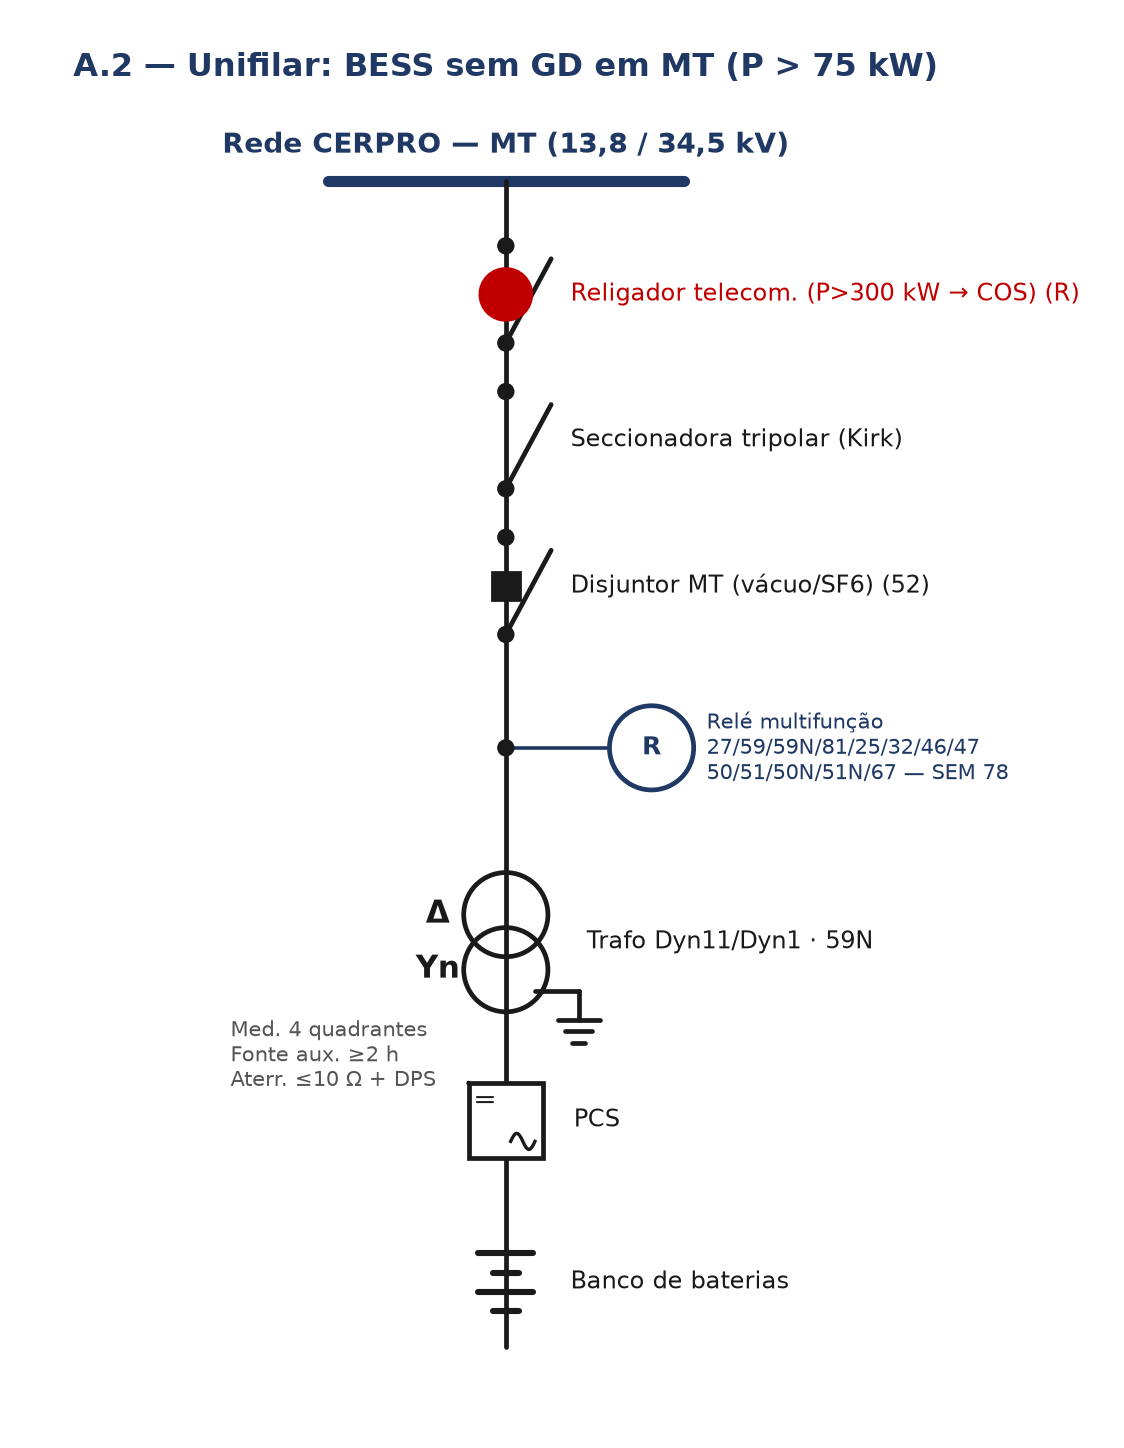
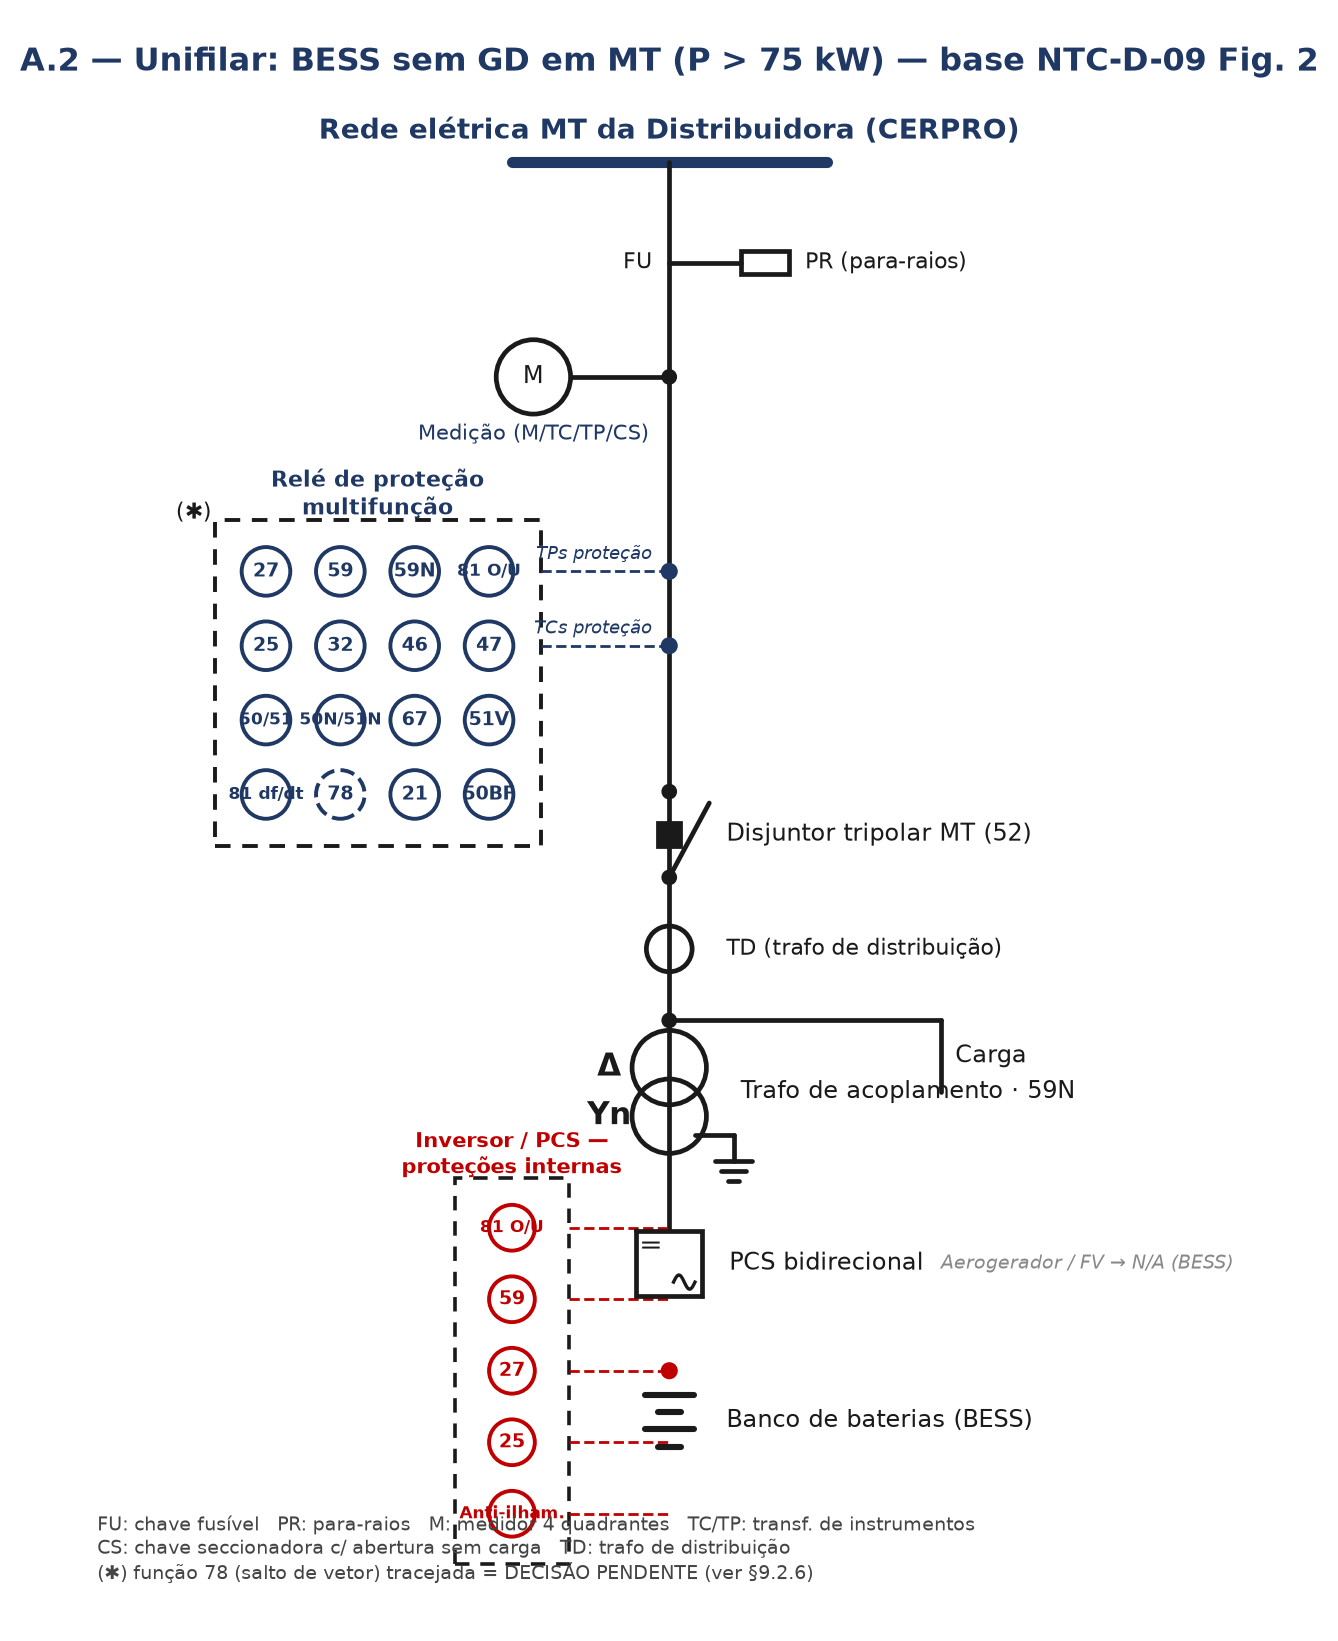
anexo A: padroniza unifilar MT (A.2) conforme NTC-D-09 Figura 2
- Extrai Figuras 1-4 da NTC-D-09 (R3/2024) para docs/fontes-cerpro/figuras-ntc-d09/.
- Reescreve A.2 (MT) no traçado da CERPRO: caixa de funções ANSI alimentada por
  TPs/TCs de proteção, disjuntor tripolar, TD, trafo de acoplamento com ramo de
  Carga e caixa de proteções internas do inversor/PCS.
- Função 78 desenhada tracejada (decisão pendente, §9.2.6).
- Notas do Anexo A citam a figura-fonte; regenera R1.

Claude-Session: https://claude.ai/code/session_01Rp2scNn3jAT7JpPEQA3B4n

diff --git a/rascunhos/NTC-D-XX-BESS/diagramas.py b/rascunhos/NTC-D-XX-BESS/diagramas.py
@@ -83,6 +83,47 @@ def relay(ax,x,y,side,text,c=BLUE):
     ha='left' if side>0 else 'right'
     lbl(ax,xr+side*0.34,y,text,ha=ha,fs=7.6,c=c)
 
+def ansi(ax,x,y,code,c=BLUE,pending=False,r=0.17):
+    # ANSI function circle (CERPRO Figura 2 style)
+    ls='--' if pending else '-'
+    ax.add_patch(Circle((x,y),r,fill=False,edgecolor=c,lw=1.4,ls=ls,zorder=4))
+    fs=7.0 if len(code)<=4 else 6.0
+    lbl(ax,x,y,code,ha='center',fs=fs,c=c,b=True)
+
+def protbox(ax,x,y_top,codes,title='Relé de proteção\nmultifunção',side=-1):
+    # CERPRO Figura 2: caixa de funções alimentada por TPs/TCs de proteção
+    cols=4; cw=0.52; ch=0.52
+    rows=(len(codes)+cols-1)//cols
+    bw=cols*cw+0.2; bh=rows*ch+0.2
+    bx=x+side*(0.9)            # right edge of box near main line
+    x0=bx-bw if side<0 else bx
+    y0=y_top-bh
+    ax.add_patch(Rectangle((x0,y0),bw,bh,fill=False,edgecolor=K,lw=1.4,ls=(0,(4,3)),zorder=2))
+    lbl(ax,x0+bw/2,y_top+0.18,title,ha='center',fs=8,c=BLUE,b=True)
+    for i,(code,pend) in enumerate(codes):
+        r,cc=divmod(i,cols)
+        cx=x0+0.1+cw/2+cc*cw; cy=y_top-0.1-ch/2-r*ch
+        ansi(ax,cx,cy,code,pending=pend)
+    # TP / TC proteção stubs from main line into box
+    ytp=y_top-0.1-ch/2; ytc=y_top-0.1-ch/2-ch
+    for yy,t in [(ytp,'TPs proteção'),(ytc,'TCs proteção')]:
+        L(ax,x,yy,x0+bw,yy,c=BLUE,lw=1.0,ls='--')
+        lbl(ax,x-0.12,yy+0.12,t,ha='right',fs=6.6,c=BLUE,it=True)
+        ax.add_patch(Circle((x,yy),0.05,fill=True,color=BLUE,zorder=5))
+    return y0
+
+def invbox(ax,x,y_top,codes,title='Inversor / PCS —\nproteções internas'):
+    ch=0.5; bh=len(codes)*ch+0.2; bw=0.8
+    x0=x-bw-0.7; y0=y_top-bh
+    ax.add_patch(Rectangle((x0,y0),bw,bh,fill=False,edgecolor=K,lw=1.3,ls=(0,(4,3)),zorder=2))
+    lbl(ax,x0+bw/2,y_top+0.16,title,ha='center',fs=7.4,c=RED,b=True)
+    for i,(code,pend) in enumerate(codes):
+        cy=y_top-0.1-ch/2-i*ch
+        ansi(ax,x0+bw/2,cy,code,c=RED,pending=pend,r=0.16)
+        L(ax,x0+bw,cy,x,cy,c=RED,lw=1.0,ls='--')
+    ax.add_patch(Circle((x,(y0+y_top)/2),0.05,fill=True,color=RED,zorder=5))
+    return y0
+
 def newfig(w,h,title):
     fig,ax=plt.subplots(figsize=(w,h)); ax.axis('off'); ax.set_aspect('equal')
     ax._title_txt=title
@@ -112,21 +153,45 @@ battery(ax,x,ys[6])
 ax.set_xlim(0.2,6.4); ax.set_ylim(1.6,9.7)
 fig.savefig('img/anexoA1.png',dpi=200,bbox_inches='tight'); plt.close(fig); print('A1 ok')
 
-# ===== A.2 — MT =====
-fig,ax=newfig(7.0,9.6,'A.2 — Unifilar: BESS sem GD em MT (P > 75 kW)')
-x=3.2; top=9.7
-put_title(ax,x,top+0.7); busbar(ax,x,top,2.2,'Rede CERPRO — MT (13,8 / 34,5 kV)')
-ys=[9.0,8.1,7.2,6.2,5.0,3.9,2.9]
-L(ax,x,top,x,ys[-1]-0.4)
-recloser(ax,x,ys[0],'Religador telecom. (P>300 kW → COS)')
-disconnect(ax,x,ys[1],'Seccionadora tripolar (Kirk)')
-breaker(ax,x,ys[2],'Disjuntor MT (vácuo/SF6)',num='52')
-relay(ax,x,ys[3],+1,'Relé multifunção\n27/59/59N/81/25/32/46/47\n50/51/50N/51N/67 — SEM 78',c=BLUE); dot(ax,x,ys[3])
-transformer(ax,x,ys[4],'Δ','Yn','Trafo Dyn11/Dyn1 · 59N')
-inverter(ax,x,ys[5],'PCS')
-battery(ax,x,ys[6])
-lbl(ax,x-1.7,ys[5]+0.4,'Med. 4 quadrantes\nFonte aux. ≥2 h\nAterr. ≤10 Ω + DPS',ha='left',fs=7.4,c='#555')
-ax.set_xlim(0.2,6.9); ax.set_ylim(2.0,10.7)
+# ===== A.2 — MT  (padronizado conforme NTC-D-09 Figura 2) =====
+fig,ax=newfig(8.4,10.4,'A.2 — Unifilar: BESS sem GD em MT (P > 75 kW) — base NTC-D-09 Fig. 2')
+x=4.6; top=10.4
+put_title(ax,x,top+0.7); busbar(ax,x,top,2.2,'Rede elétrica MT da Distribuidora (CERPRO)')
+# coluna principal: PR/FU -> medição -> proteção -> disjuntor tripolar -> TD -> trafo acopl.
+y_pr=9.7; y_med=8.9; y_prot=7.9; y_cb=5.7; y_td=4.9; y_tr=3.9; y_pcs=2.7; y_bat=1.6
+L(ax,x,top,x,y_pcs-0.2)
+# para-raios + chave fusível
+L(ax,x,y_pr,x+0.5,y_pr); ax.add_patch(Rectangle((x+0.5,y_pr-0.08),0.34,0.16,fill=False,edgecolor=K,lw=LW)); lbl(ax,x+0.95,y_pr,'PR (para-raios)',fs=8)
+lbl(ax,x-0.12,y_pr,'FU',ha='right',fs=8)
+# medição (M / TC / TP / CS)
+meter(ax,x-0.95,y_med,'M'); L(ax,x-0.95,y_med,x,y_med); dot(ax,x,y_med)
+lbl(ax,x-0.95,y_med-0.4,'Medição (M/TC/TP/CS)',ha='center',fs=7.6,c=BLUE)
+# caixa de funções de proteção (estilo Figura 2)  — 78 marcada como PENDENTE (tracejada)
+codes=[('27',0),('59',0),('59N',0),('81 O/U',0),
+       ('25',0),('32',0),('46',0),('47',0),
+       ('50/51',0),('50N/51N',0),('67',0),('51V',0),
+       ('81 df/dt',0),('78',1),('21',0),('50BF',0)]
+protbox(ax,x,y_prot,codes,side=-1)
+lbl(ax,x-3.45,7.95,'(✱)',ha='left',fs=8)
+# disjuntor tripolar
+breaker(ax,x,y_cb,'Disjuntor tripolar MT',num='52')
+# TD + trafo de acoplamento  + ramo de Carga
+lbl(ax,x+0.4,y_td,'TD (trafo de distribuição)',fs=8)
+ax.add_patch(Circle((x,y_td),0.16,fill=False,edgecolor=K,lw=LW,zorder=3))
+transformer(ax,x,y_tr,'Δ','Yn','Trafo de acoplamento · 59N')
+dot(ax,x,y_tr+0.5); L(ax,x,y_tr+0.5,x+1.9,y_tr+0.5); L(ax,x+1.9,y_tr+0.5,x+1.9,y_tr); lbl(ax,x+2.0,y_tr+0.25,'Carga',fs=8.5)
+# inversor + proteções internas (caixa lateral, estilo Figura 2)
+invcodes=[('81 O/U',0),('59',0),('27',0),('25',0),('Anti-ilham.',0)]
+invbox(ax,x,y_pcs+0.6,invcodes)
+inverter(ax,x,y_pcs,'PCS bidirecional')
+battery(ax,x,y_bat,'Banco de baterias (BESS)')
+lbl(ax,x+1.9,y_pcs,'Aerogerador / FV → N/A (BESS)',fs=7,it=True,c='#888')
+# legenda
+leg=('FU: chave fusível   PR: para-raios   M: medidor 4 quadrantes   TC/TP: transf. de instrumentos\n'
+     'CS: chave seccionadora c/ abertura sem carga   TD: trafo de distribuição\n'
+     '(✱) função 78 (salto de vetor) tracejada = DECISÃO PENDENTE (ver §9.2.6)')
+lbl(ax,0.6,0.7,leg,ha='left',va='center',fs=6.8,c='#444')
+ax.set_xlim(0.2,8.3); ax.set_ylim(0.2,11.4)
 fig.savefig('img/anexoA2.png',dpi=200,bbox_inches='tight'); plt.close(fig); print('A2 ok')
 
 # ===== A.3 — Híbrido com LPI =====

diff --git a/rascunhos/NTC-D-XX-BESS/NTC-D-XX-anexos.md b/rascunhos/NTC-D-XX-BESS/NTC-D-XX-anexos.md
@@ -137,6 +137,12 @@ intertravamento (dispensado se inversor certificado INMETRO 140/2022).
 
 @@IMG:img/anexoA2.png@@
 
+Notas: traçado padronizado conforme a **NTC-D-09 (R3/2024), Figura 2** — caixa de funções de proteção
+alimentada por TPs/TCs de proteção, disjuntor tripolar, trafo de acoplamento (com ramo de Carga) e
+proteções internas do inversor/PCS. A função **78 (salto de vetor)** é desenhada **tracejada =
+decisão pendente** (ver §9.2.6). Figuras-fonte da CERPRO arquivadas em
+`docs/fontes-cerpro/figuras-ntc-d09/` (Figuras 1 a 4).
+
 **A.3 — BESS híbrido com MMGD (on-grid, LPI)**
 
 @@IMG:img/anexoA3.png@@
